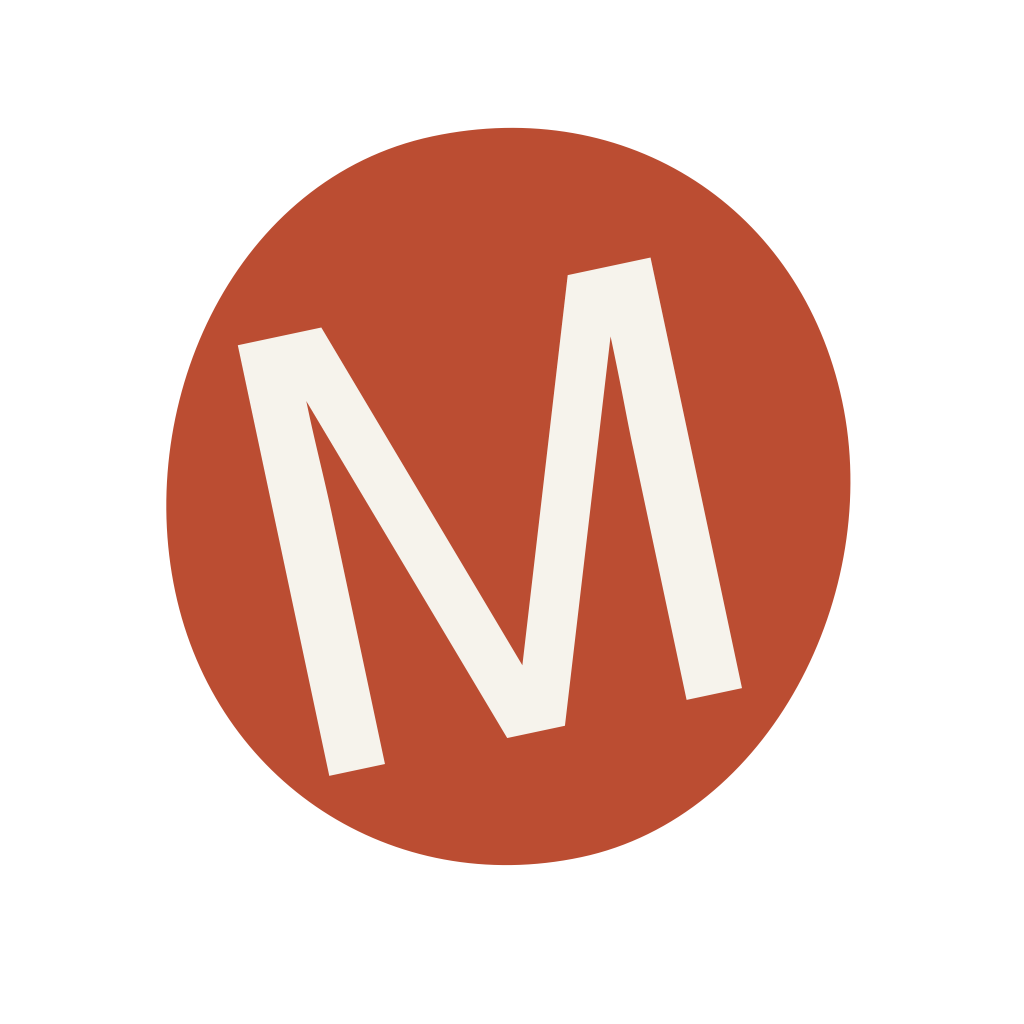
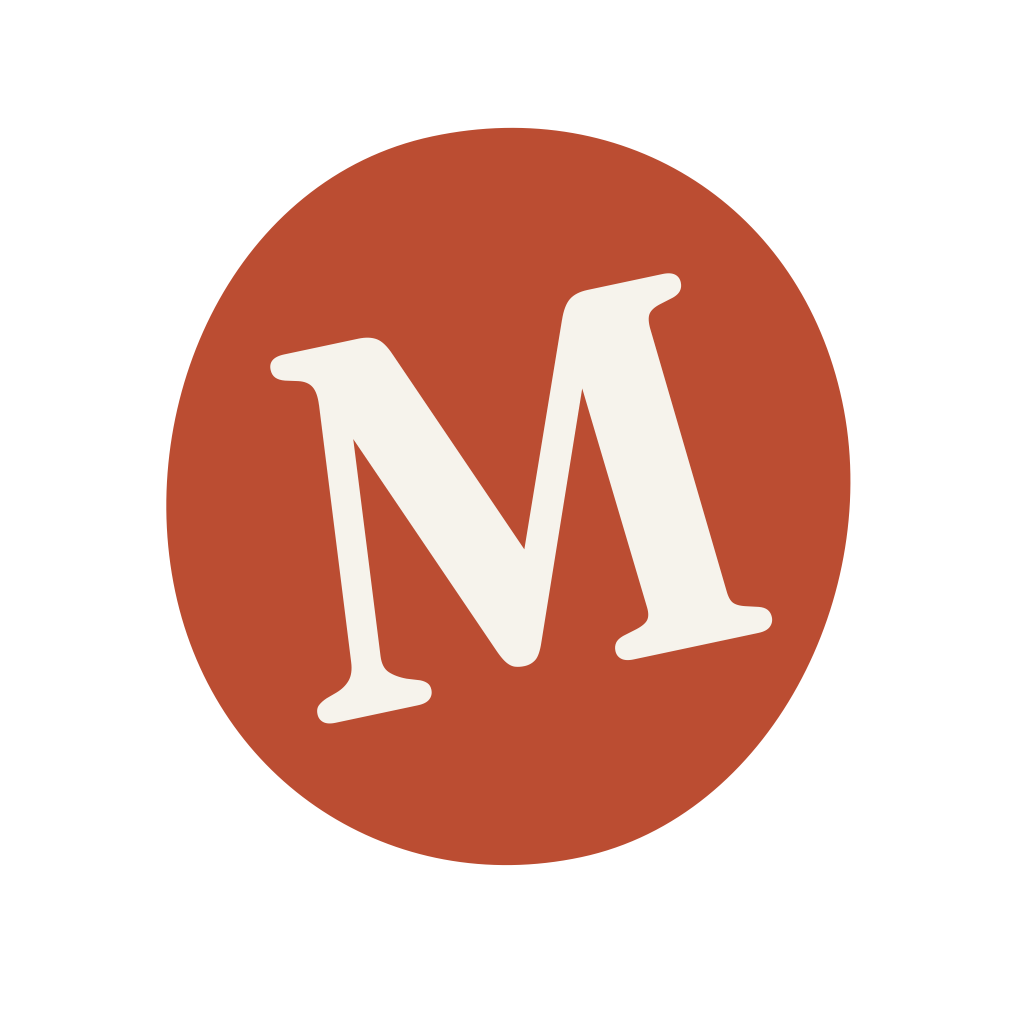
fix: use original brand and App Store assets

Changed region(s): [[0.2188, 0.25, 0.75, 0.7812], [0.6562, 0.375, 0.6875, 0.4688]]

diff --git a/index.html b/index.html
@@ -45,7 +45,7 @@
         </div>
         <a class="project" href="https://perchhome.app" target="_blank" rel="noreferrer">
           <div class="project-art" aria-hidden="true">
-            <img class="project-screenshot" src="assets/perch-home-dashboard.jpg" alt="" />
+            <img class="project-screenshot" src="assets/perch-home-dashboard.png" alt="" />
             <span class="project-app-icon">
               <img src="assets/perch-home-icon.png" alt="" />
             </span>
